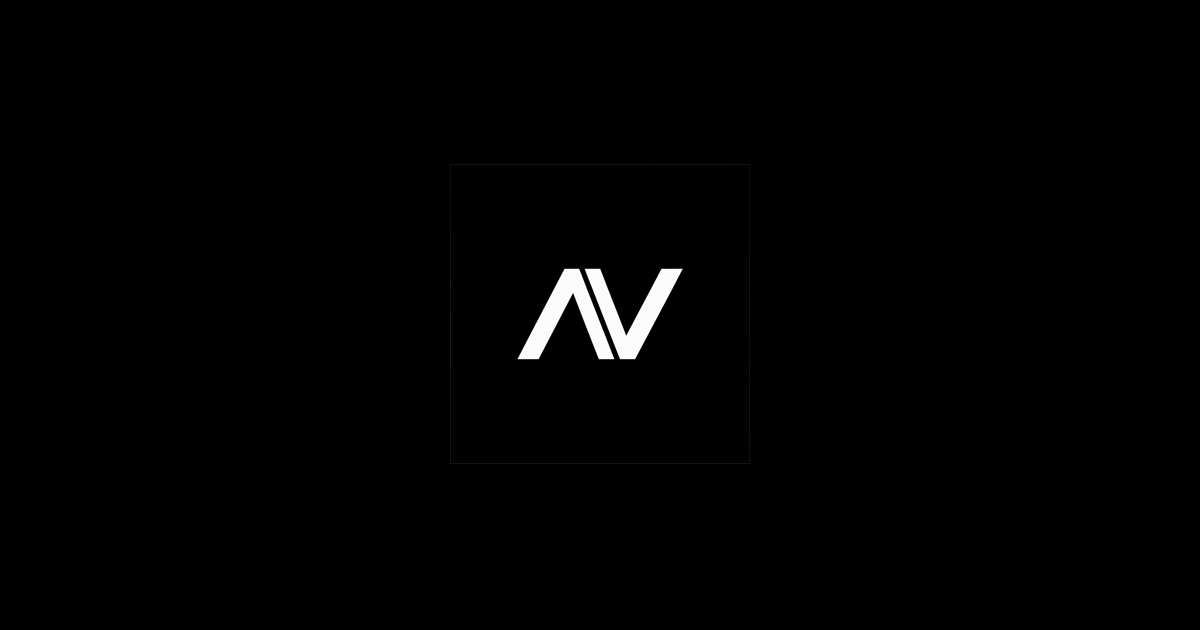
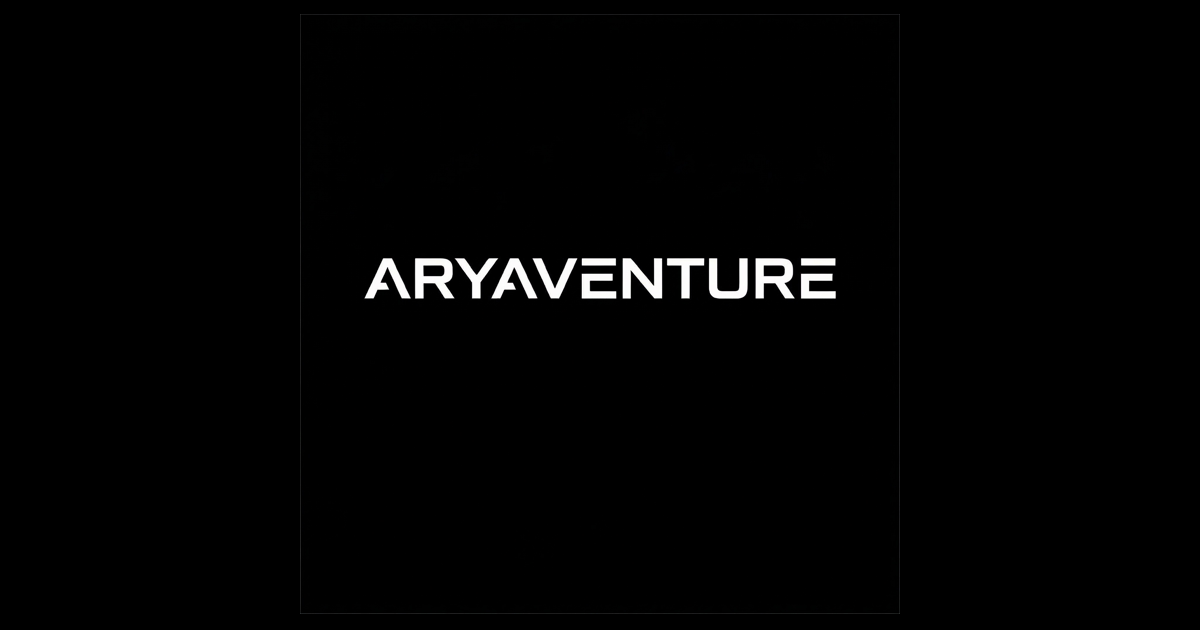
Definitive mobile about fix + proper OG image with wordmark
About section (mobile):
- Scoped #about overrides: padding 24px, full-width grid, no min-height
- All children max-width:100% with box-sizing:border-box
- Video: full-width, 16:9 aspect, centered object-position, no transforms
- Text: word-wrap/overflow-wrap for long words, 15px font
- Tag line: flex-wrap with proper gaps, left-aligned

Global mobile overflow:
- html/body: overflow-x hidden, max-width 100vw
- All direct body children: max-width 100vw, overflow-x hidden

OG image:
- 1200x630 ARYAVENTURE wordmark centered on black background
- Added og:image:width, og:image:height, og:image:alt meta tags
- Added twitter:image meta tag

Changed region(s): [[0.3083, 0.3921, 0.7092, 0.573]]

diff --git a/index.html b/index.html
@@ -13,9 +13,13 @@
 <meta property="og:url" content="https://aryaventure.com">
 <meta property="og:locale" content="en_US">
 <meta property="og:image" content="https://aryaventure.com/og-image.png">
+<meta property="og:image:width" content="1200">
+<meta property="og:image:height" content="630">
+<meta property="og:image:alt" content="Arya Venture — Premium Digital Agency">
 <meta name="twitter:card" content="summary_large_image">
 <meta name="twitter:title" content="Arya Venture | Premium Websites">
 <meta name="twitter:description" content="Premium digital agency building custom websites with search optimization.">
+<meta name="twitter:image" content="https://aryaventure.com/og-image.png">
 <link rel="alternate" hreflang="en" href="https://aryaventure.com">
 <link rel="alternate" hreflang="x-default" href="https://aryaventure.com">
 
@@ -678,6 +682,76 @@ section[id], [id] {
 @media(max-width:768px){
 .confirm-card{padding:44px 28px 36px;border-radius:18px}
 .confirm-title{font-size:22px}
+}
+
+/* ═══ MOBILE ABOUT SECTION — DEFINITIVE FIX ═══ */
+@media (max-width: 768px) {
+  #about {
+    padding: 60px 24px;
+    width: 100%;
+    max-width: 100%;
+    overflow-x: hidden;
+    box-sizing: border-box;
+  }
+  #about .about-grid {
+    grid-template-columns: 1fr;
+    gap: 32px;
+    min-height: auto;
+    width: 100%;
+    max-width: 100%;
+  }
+  #about .about-body {
+    font-size: 15px;
+    line-height: 1.75;
+    max-width: 100%;
+    word-wrap: break-word;
+    overflow-wrap: break-word;
+  }
+  #about .section-title {
+    max-width: 100%;
+    word-wrap: break-word;
+  }
+  #about .about-tag-line {
+    justify-content: flex-start;
+    flex-wrap: wrap;
+    gap: 12px;
+    font-size: 13px;
+    max-width: 100%;
+  }
+  #about .about-video-wrap {
+    width: 100%;
+    max-width: 100%;
+    aspect-ratio: 16/9;
+    margin: 0;
+    border-radius: 12px;
+    overflow: hidden;
+    min-height: 220px;
+  }
+  #about .about-video {
+    width: 100%;
+    height: 100%;
+    object-fit: cover;
+    object-position: center center;
+    will-change: auto;
+    transform: none;
+  }
+  #about * {
+    max-width: 100%;
+    box-sizing: border-box;
+  }
+}
+
+/* ═══ GLOBAL MOBILE OVERFLOW KILL ═══ */
+@media (max-width: 768px) {
+  html, body {
+    overflow-x: hidden !important;
+    width: 100%;
+    max-width: 100vw;
+  }
+  body > * {
+    max-width: 100vw;
+    overflow-x: hidden;
+  }
 }
 </style>
 
